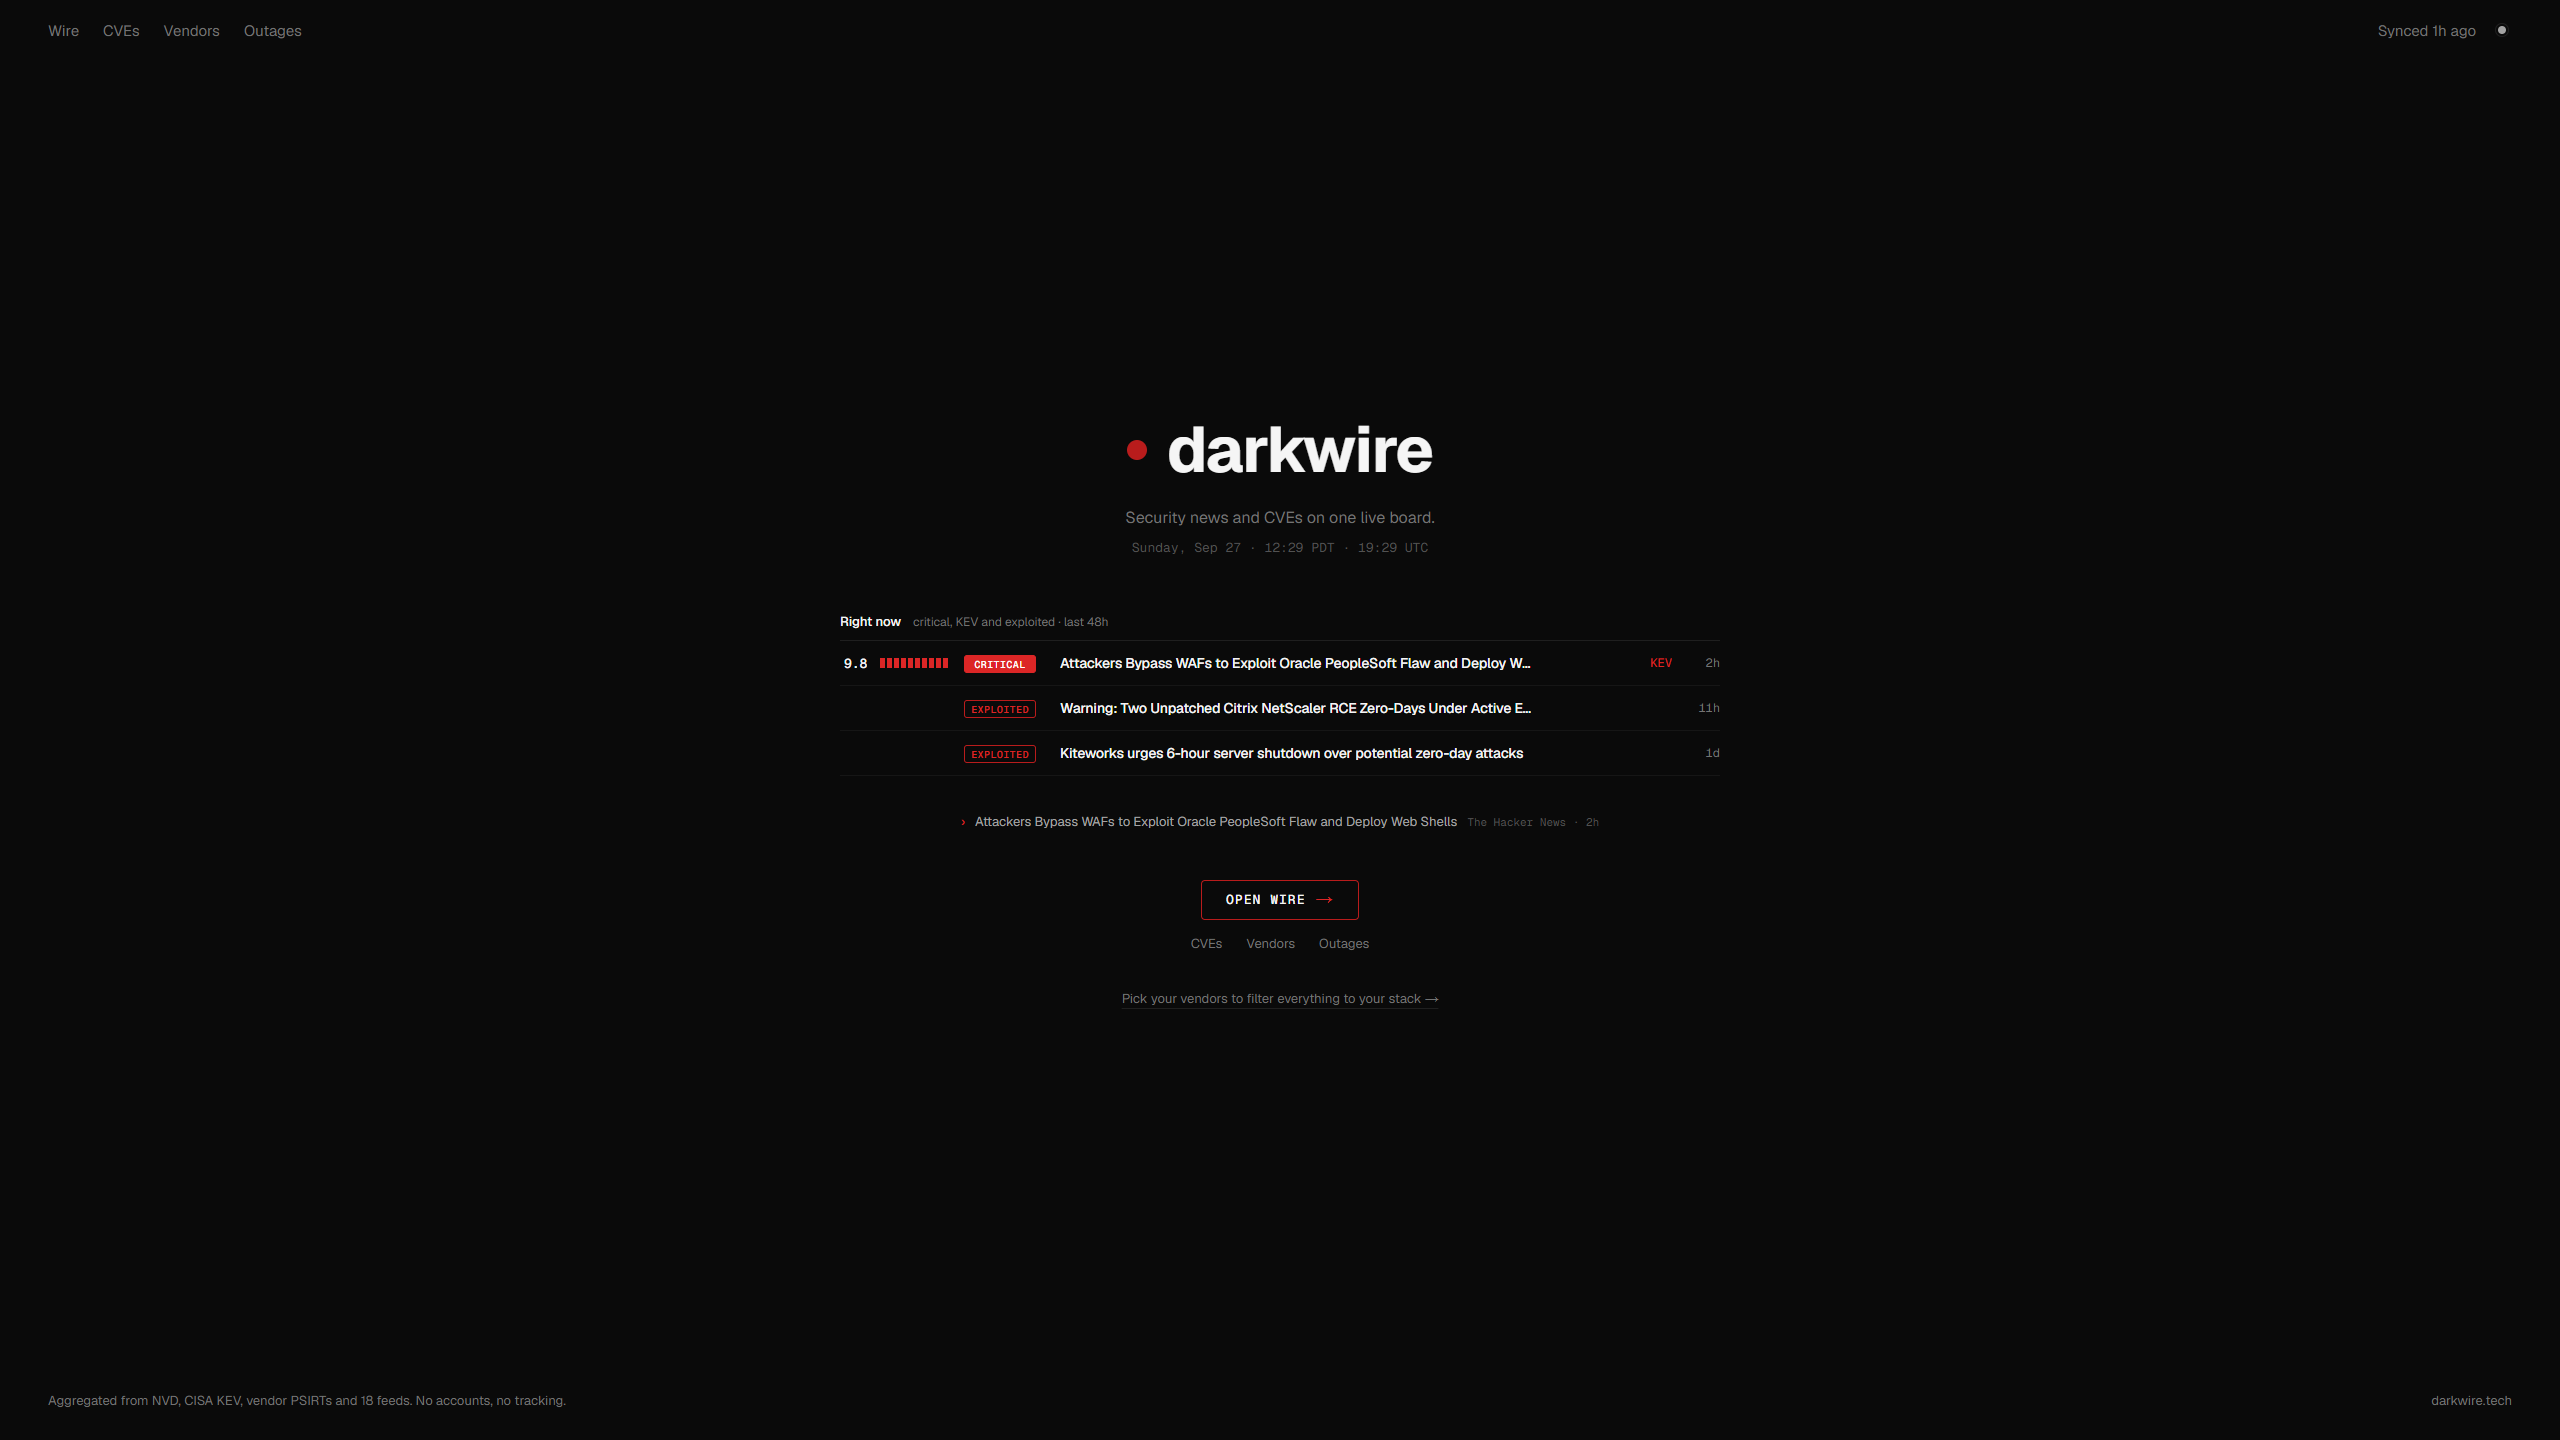
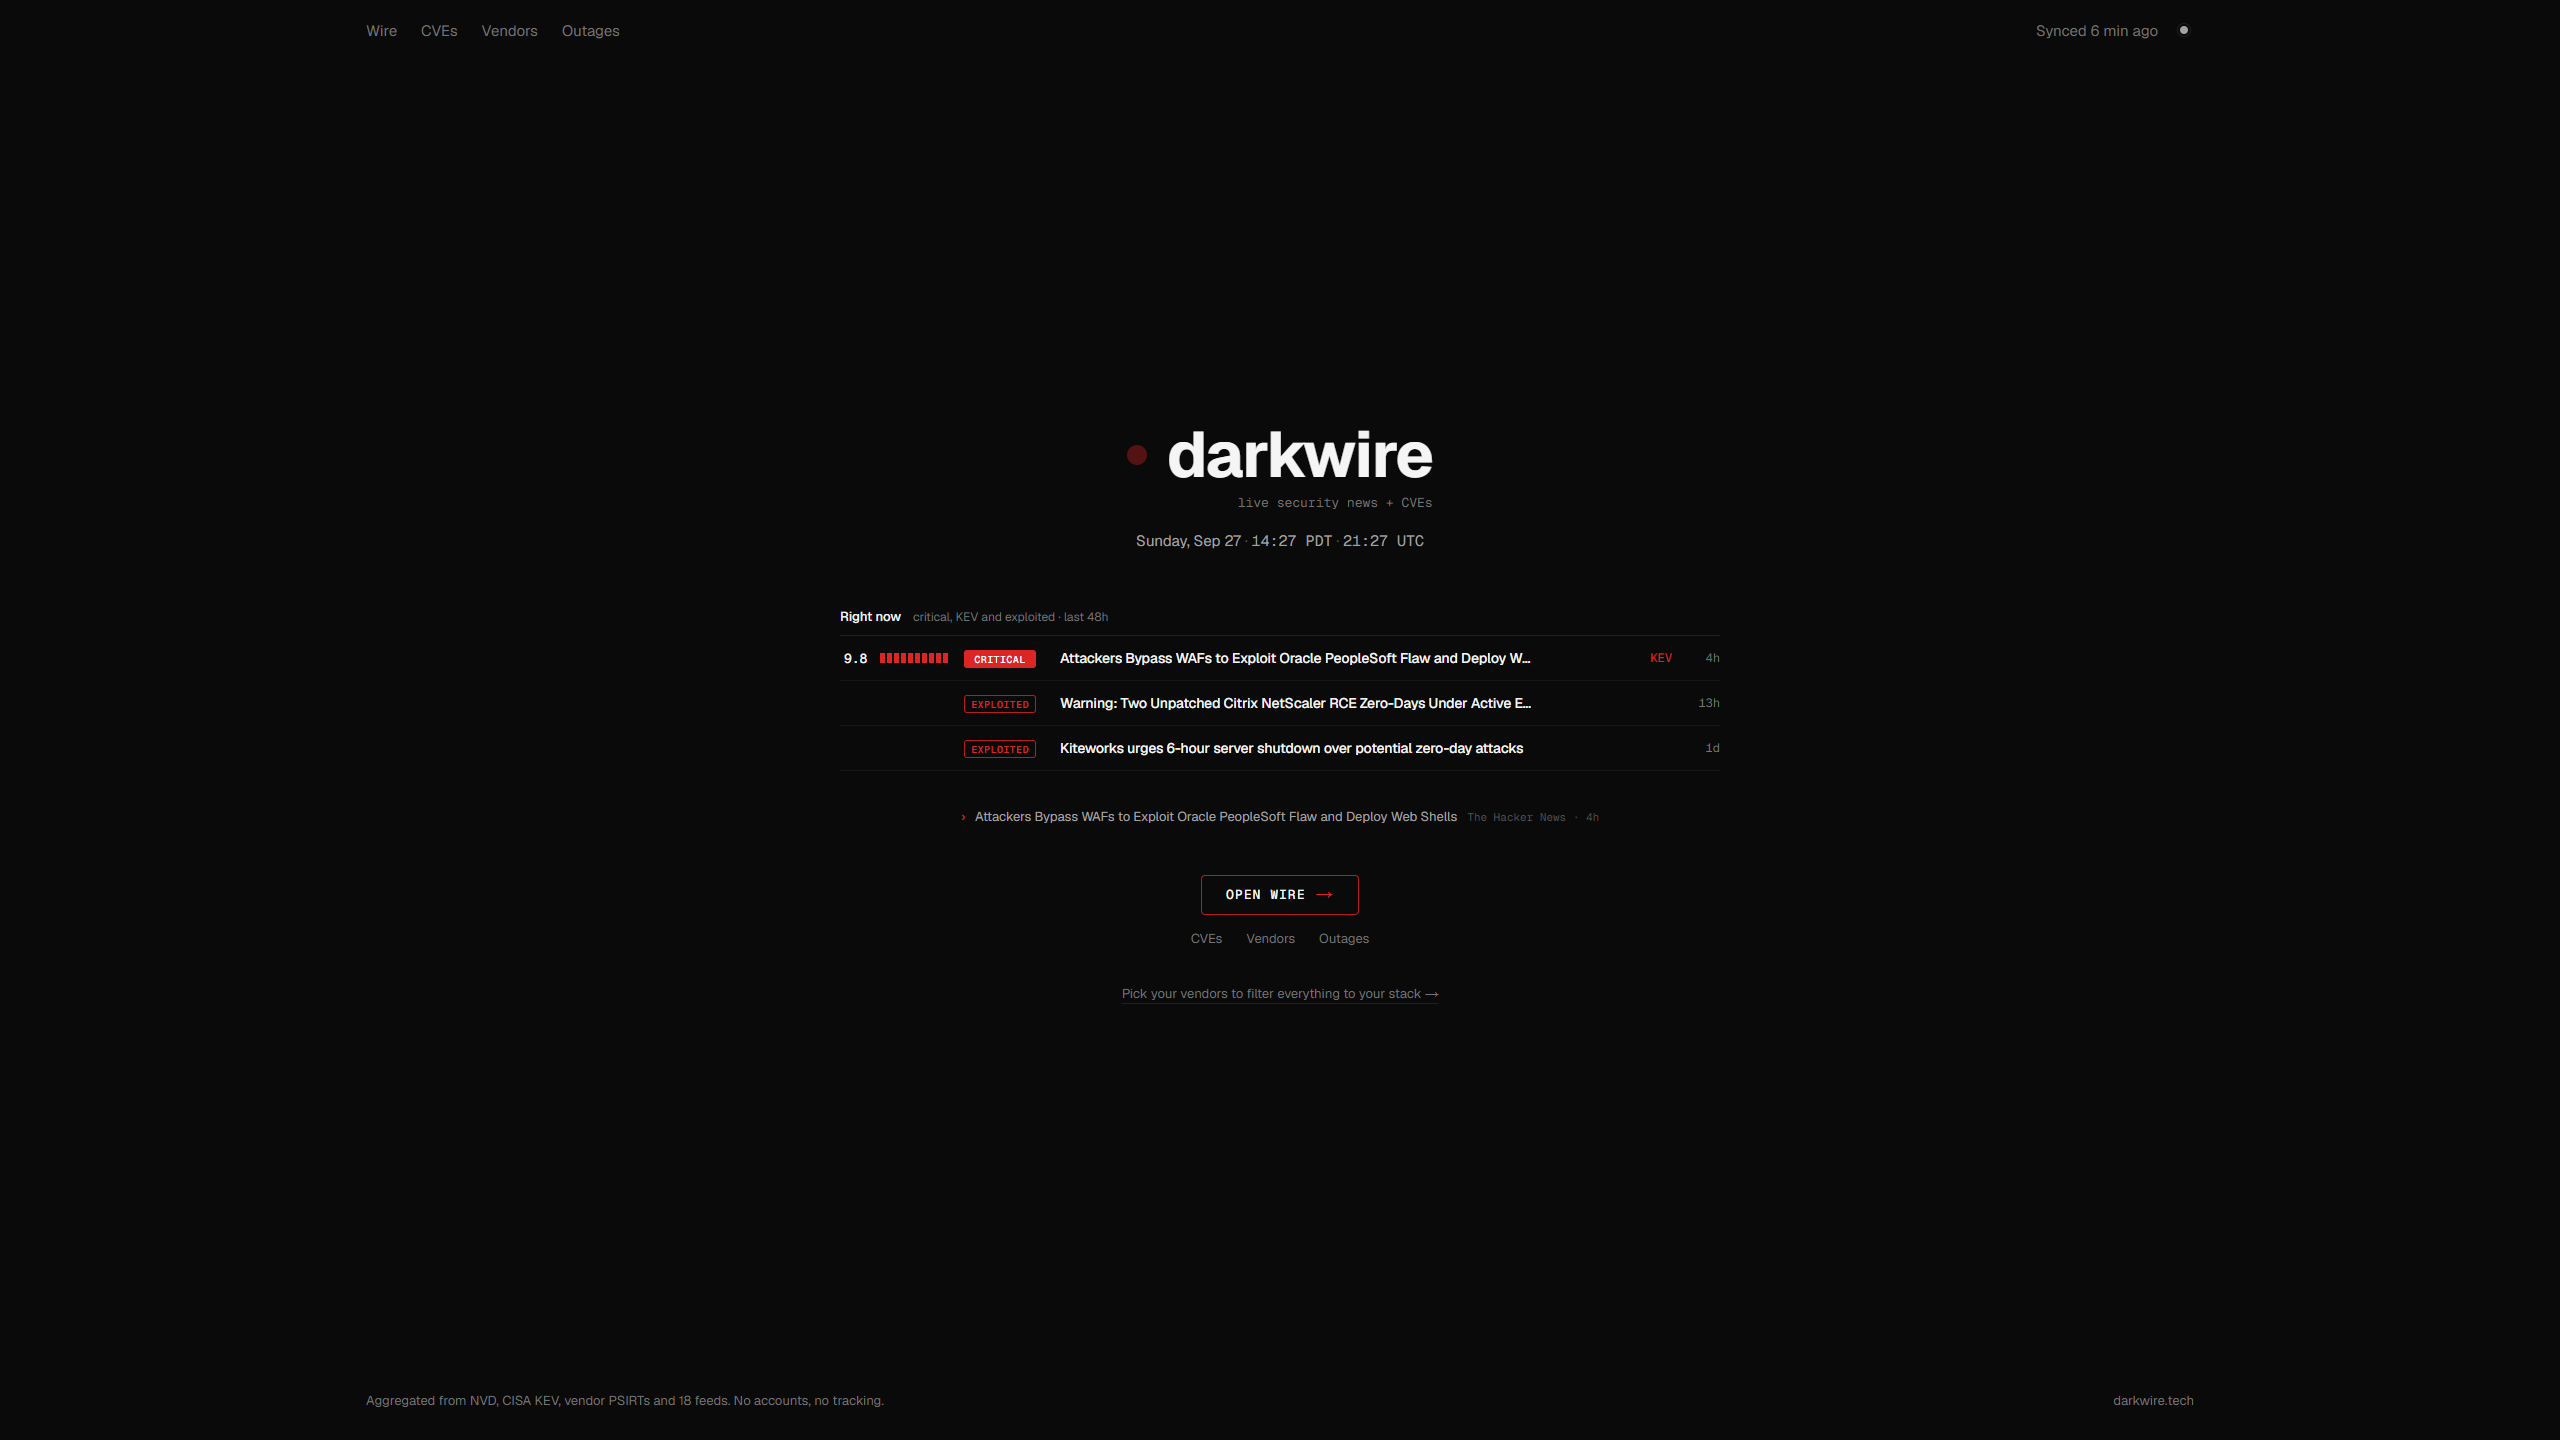
Landing: og.png lockup with right-aligned mono tagline, sans/mono date line

diff --git a/web/components/home/HomeBoard.tsx b/web/components/home/HomeBoard.tsx
@@ -112,9 +112,11 @@ export function HomeBoard({ initial }: { initial: HomeData }) {
     // One screen tall: the block centers in whatever the nav and footer leave.
     <main className="flex min-h-[calc(100dvh/var(--zoom)-var(--nav-h))] flex-col page-frame">
       <div className="mx-auto my-auto flex w-full max-w-[880px] flex-col items-center py-[clamp(24px,5vh,72px)] text-center">
-        <Wordmark state={syncState(status, statusFailed || status?.sync.last_ok === false, minute?.getTime() ?? null)} />
-        <p className="mt-[clamp(14px,2vh,24px)] text-base leading-6 text-muted">Security news and CVEs on one live board.</p>
-        <DateLine now={minute} />
+        {/* One block on the page's center axis: the lockup (as in og.png), then the date line. */}
+        <div className="flex flex-col items-center">
+          <Lockup state={syncState(status, statusFailed || status?.sync.last_ok === false, minute?.getTime() ?? null)} />
+          <DateLine now={minute} />
+        </div>
         <RightNow items={rightNow.slice(0, RIGHT_NOW_ROWS)} dots={dots} failed={initial.failed && !rightNow.length} />
         <Ticker items={latest} />
 
@@ -158,31 +160,48 @@ export function HomeBoard({ initial }: { initial: HomeData }) {
   )
 }
 
-/** The landing's centerpiece: the nav wordmark, scaled up, with the same live/stale/down dot. */
-function Wordmark({ state }: { state: SyncState }) {
+/** The landing's centerpiece, the og.png lockup: the nav wordmark scaled up with the same
+ * live/stale/down dot, and "live security news + CVEs" under it, its right edge on the
+ * wordmark's right edge. */
+function Lockup({ state }: { state: SyncState }) {
   return (
-    <h1
-      className="flex items-center gap-[0.32em] leading-none font-bold tracking-[-0.02em] text-fg"
-      style={{ fontSize: "clamp(40px, 3.2vw, 64px)" }}
-    >
-      <SyncDot state={state} className="size-[0.3em]" />
-      darkwire
-    </h1>
+    <div className="inline-flex flex-col items-end">
+      <h1
+        className="flex items-center gap-[0.32em] leading-none font-bold tracking-[-0.02em] text-fg"
+        style={{ fontSize: "clamp(40px, 3.2vw, 64px)" }}
+      >
+        <SyncDot state={state} className="size-[0.3em]" />
+        darkwire
+      </h1>
+      <p className="mt-2 font-mono text-[13px] leading-4 text-muted">live security news + CVEs</p>
+    </div>
   )
 }
 
-/** "Sunday, Sep 27 · 12:20 PDT · 19:20 UTC" (just "… · 19:20 UTC" for UTC viewers). */
+/** "Sunday, Sep 27 · 14:09 PDT · 21:09 UTC": date in sans, times in mono, dots dim. UTC viewers
+ * see only UTC. Each minute. */
 function DateLine({ now }: { now: Date | null }) {
-  const text = now
-    ? [
-        now.toLocaleDateString([], { weekday: "long", month: "short", day: "numeric" }),
-        zoneName(now) === "UTC" ? null : `${pad(now.getHours())}:${pad(now.getMinutes())} ${zoneName(now)}`,
-        `${utcHHMM(now)} UTC`,
-      ]
-        .filter(Boolean)
-        .join(" · ")
-    : ""
-  return <p className="mt-2.5 h-4 font-mono text-[13px] leading-4 text-dim">{text}</p>
+  const dot = <span className="text-dim"> · </span>
+  const utcOnly = now !== null && zoneName(now) === "UTC"
+  return (
+    <p className="mt-5 h-5 text-[15px] leading-5 text-fg-2">
+      {now && (
+        <>
+          {now.toLocaleDateString([], { weekday: "long", month: "short", day: "numeric" })}
+          {!utcOnly && (
+            <>
+              {dot}
+              <span className="font-mono">
+                {pad(now.getHours())}:{pad(now.getMinutes())} {zoneName(now)}
+              </span>
+            </>
+          )}
+          {dot}
+          <span className="font-mono">{utcHHMM(now)} UTC</span>
+        </>
+      )}
+    </p>
+  )
 }
 
 // ---------------------------------------------------------------- Right now

diff --git a/CLAUDE.md b/CLAUDE.md
@@ -17,7 +17,7 @@ Reference mockups: `/design-refs/home.png` and `/design-refs/wire.png`. Match th
 
 | Route | Purpose |
 |---|---|
-| `/` | Home, a calm landing page. A centered block, max 880px, about half the viewport tall with black space around it: the wordmark as centerpiece (the nav wordmark scaled up, `clamp(40px, 3.2vw, 64px)`, 700, -0.02em, with the same pulsing live/stale/failing dot), the tagline "Security news and CVEs on one live board." (16px `--muted`), one 13px mono `--dim` line `Sunday, Sep 27 · 12:20 PDT · 19:20 UTC` updating each minute (no seconds), Right now (critical, KEV and exploited in the last 48h, max 3 rows of 44px with 14px headlines, linking to `/item/[id]`, or "Nothing critical in the last 48h."), a 13px ticker crossfading through the last 10 headlines every 8s, OPEN WIRE (40px, 13px mono) with CVEs · Vendors · Outages under it, and the stack link. No status line or clock: those live on `/wire`. The nav hides its wordmark and UTC time here. Footer: sources line from `/status`, darkwire.tech. No scrolling at 1920x1080 or 2560x1440; vertically centered in portrait. |
+| `/` | Home, a calm landing page. A centered block, max 880px, about half the viewport tall with black space around it: the lockup as centerpiece, as in og.png: the nav wordmark scaled up (`clamp(40px, 3.2vw, 64px)`, 700, -0.02em, same pulsing live/stale/failing dot, which compares `/status` `sync.last_finished_at` with now) with "live security news + CVEs" in 13px Geist Mono `--muted` under it, right-aligned to the wordmark's right edge; 20px below, a 15px date line `Sunday, Sep 27 · 14:09 PDT · 21:09 UTC` (date sans `--fg-2`, times mono `--fg-2`, dots `--dim`; UTC viewers see only UTC) updating each minute; the lockup and date line sit on the same center axis as Right now and OPEN WIRE; Right now (critical, KEV and exploited in the last 48h, max 3 rows of 44px with 14px headlines, linking to `/item/[id]`, or "Nothing critical in the last 48h."), a 13px ticker crossfading through the last 10 headlines every 8s, OPEN WIRE (40px, 13px mono) with CVEs · Vendors · Outages under it, and the stack link. No status line or clock: those live on `/wire`. The nav hides its wordmark and UTC time here. Footer: sources line from `/status`, darkwire.tech. No scrolling at 1920x1080 or 2560x1440; vertically centered in portrait. |
 | `/wire` | The board. Full feed, seven tabs, vendor filter, search, right rail. |
 | `/cves` | Sortable table: CVE, vendor, product, CVSS, EPSS, KEV, published. |
 | `/vendor/[slug]` | Everything tagged to one vendor. |
